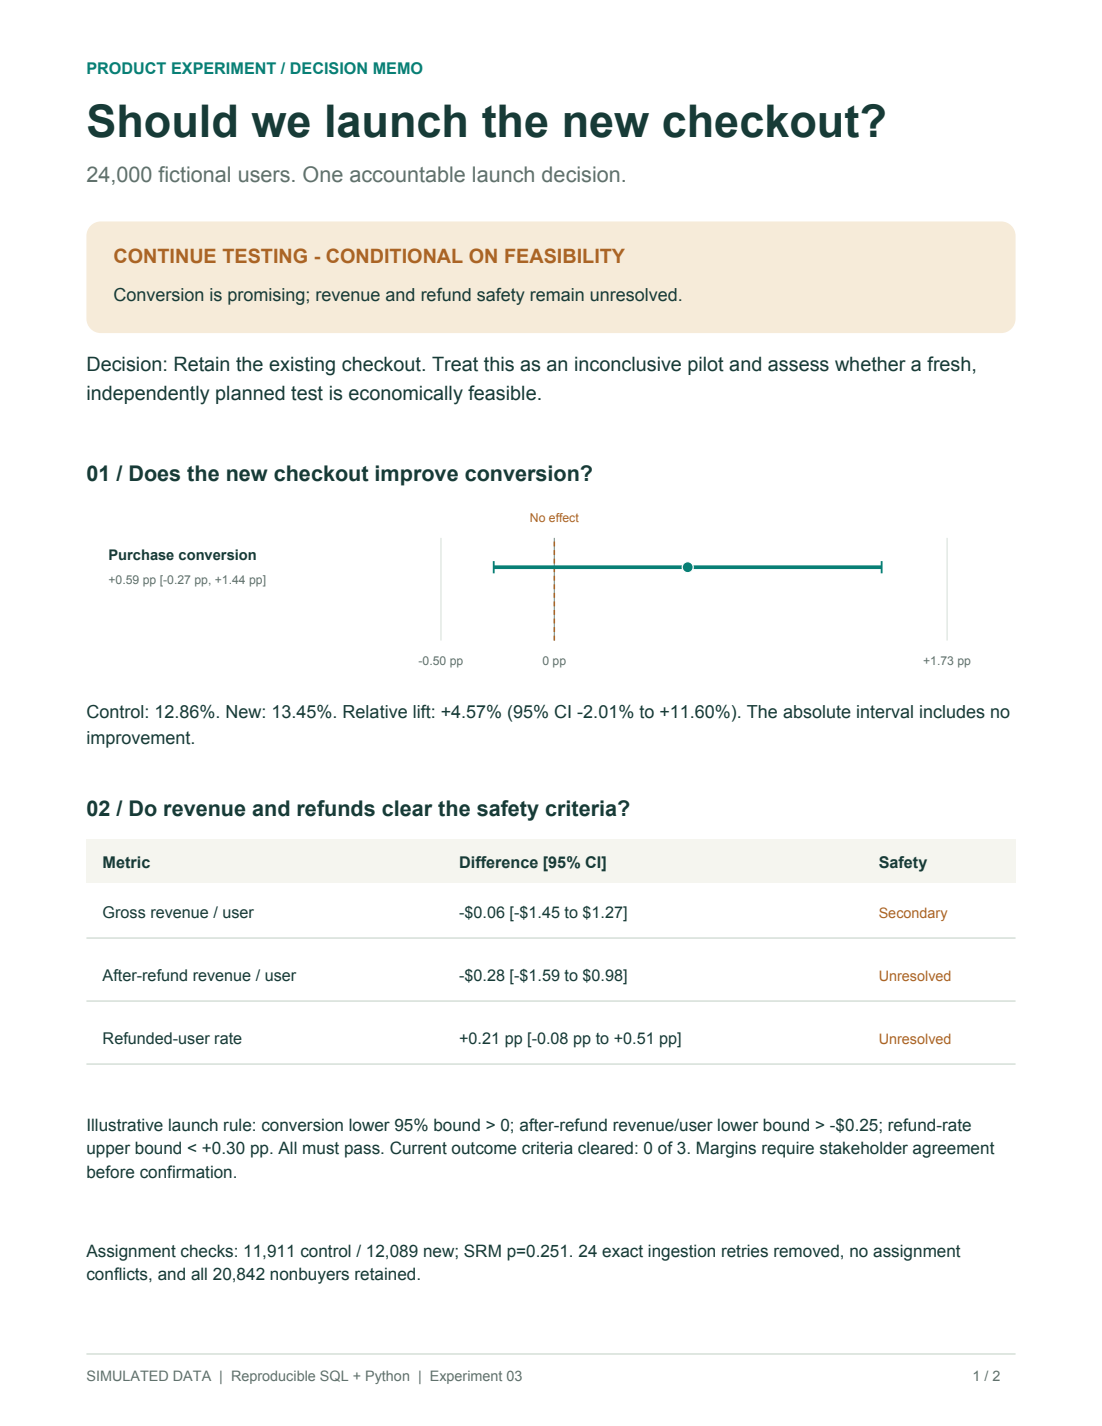
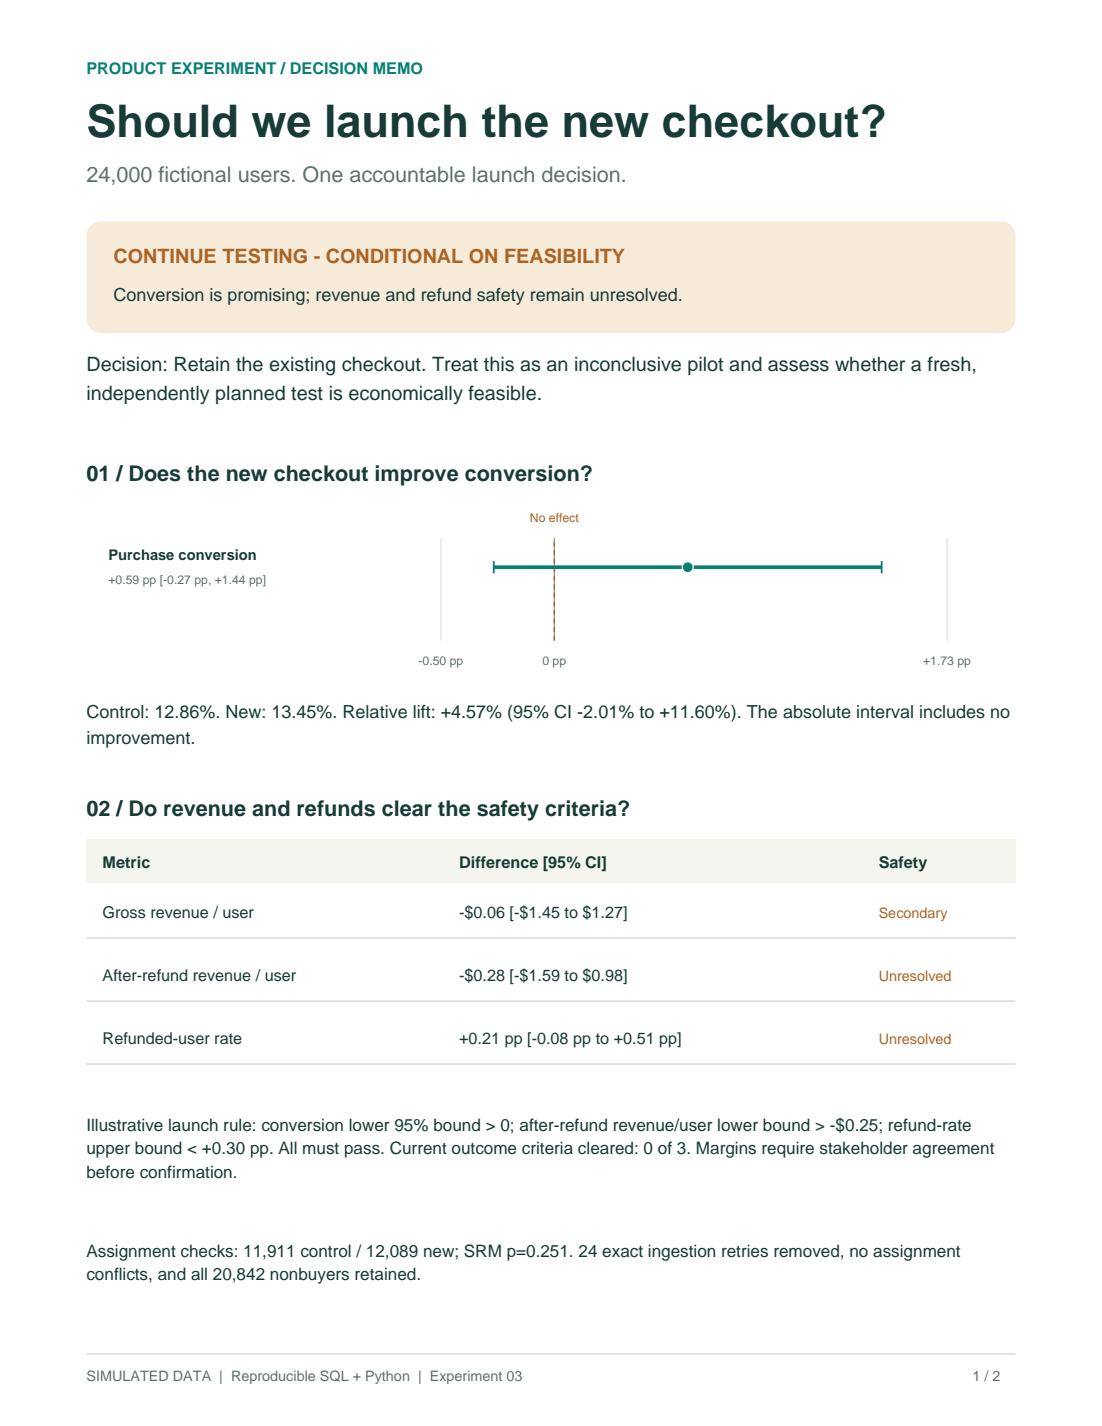
Update project documentation, rebuild readout artifacts, and add license (#1)

diff --git a/readout.html b/readout.html
@@ -5,4 +5,4 @@
[3 lines of base64/hex data omitted]
-<section class="section"><div class="section-head"><span class="section-number">05</span><div><h2>What a reviewer should challenge</h2><details open><summary>Simulation and external validity</summary><div><p>All records are fictional and the randomization process is disclosed. The observed recommendation is based on estimated effects, not the simulator's hidden probabilities. Real experiments require audits of identities, assignment delivery, payment reconciliation, tracking gaps and spillovers.</p></div></details><details><summary>Repeated checking and subgroup fishing</summary><div><p>Stopping at the first favorable ordinary confidence interval increases false positives. Use a fixed horizon or a valid sequential design. Searching many device, customer or date slices creates accidental winners. This project makes no segment launch claims; balance and shorter-window diagnostics are exploratory.</p></div></details><details><summary>Refund interpretation and missing costs</summary><div><p>Refunds among buyers are 9.66% versus 10.82%, but purchasing is affected by assignment. That conditional comparison is descriptive. The primary refund guardrail retains all assigned users. Neither revenue metric includes fees, fulfillment costs, profit margin, chargebacks or long-term customer effects.</p></div></details><details><summary>Explore the evidence and reproduce it</summary><div><ul><li><a href="docs/METHODOLOGY.md">Measurement, inference and planning assumptions</a></li><li><a href="docs/DATA_DICTIONARY.md">Raw tables and simulation provenance</a></li><li><a href="results/window_sensitivity.csv">Exploratory 1-, 3- and 7-day point estimates, without inference</a></li><li><a href="results/metrics.json">Full precision results and decision gates</a></li><li><a href="docs/INTERVIEW_GUIDE.md">Interview walkthrough and reviewer questions</a></li></ul></div></details></div></div></section></main><footer class="wrap">Built for an analyst portfolio. Synthetic data, disclosed assumptions, reproducible results.<br>Seed 314159 · Bootstrap seed 271828 · Enrollment January 1–28, 2026 · Frozen extract 2026-03-07T00:00:00 UTC.</footer></body></html>
+<section class="section"><div class="section-head"><span class="section-number">05</span><div><h2>What a reviewer should challenge</h2><details open><summary>Simulation and external validity</summary><div><p>All records are fictional and the randomization process is disclosed. The observed recommendation is based on estimated effects, not the simulator's hidden probabilities. Real experiments require audits of identities, assignment delivery, payment reconciliation, tracking gaps and spillovers.</p></div></details><details><summary>Repeated checking and subgroup fishing</summary><div><p>Stopping at the first favorable ordinary confidence interval increases false positives. Use a fixed horizon or a valid sequential design. Searching many device, customer or date slices creates accidental winners. This project makes no segment launch claims; balance and shorter-window diagnostics are exploratory.</p></div></details><details><summary>Refund interpretation and missing costs</summary><div><p>Refunds among buyers are 9.66% versus 10.82%, but purchasing is affected by assignment. That conditional comparison is descriptive. The primary refund guardrail retains all assigned users. Neither revenue metric includes fees, fulfillment costs, profit margin, chargebacks or long-term customer effects.</p></div></details><details><summary>Explore the evidence and reproduce it</summary><div><ul><li><a href="docs/METHODOLOGY.md">Measurement, inference and planning assumptions</a></li><li><a href="docs/DATA_DICTIONARY.md">Raw tables and simulation provenance</a></li><li><a href="results/window_sensitivity.csv">Exploratory 1-, 3- and 7-day point estimates, without inference</a></li><li><a href="results/metrics.json">Full precision results and decision gates</a></li></ul></div></details></div></div></section></main><footer class="wrap">Built for an analyst portfolio. Synthetic data, disclosed assumptions, reproducible results.<br>Seed 314159 · Bootstrap seed 271828 · Enrollment January 1–28, 2026 · Frozen extract 2026-03-07T00:00:00 UTC.</footer></body></html>

diff --git a/src/build_readout.py b/src/build_readout.py
@@ -229,7 +229,7 @@ def build(root=ROOT):
 <section class="section" id="economics"><div class="section-head"><span class="section-number">02</span><div><h2>More buyers, nearly flat revenue estimate.</h2><p class="reading">Gross revenue per assigned user is {signed_usd(rv['gross']['difference'])} at the point estimate. Its 95% interval runs from {usd(rv['gross']['ci95'][0])} to {usd(rv['gross']['ci95'][1])}, so these data do not establish either a gain or a loss. Gross revenue equals conversion × orders per buyer × average order value. In this sample, lower repeat ordering and basket value offset the conversion contribution. Additional refunds reduce the after-refund point estimate further.</p>{figure('revenue_drivers','Arithmetic decomposition of the observed difference, averaged across all six factor replacement orders. These are descriptive contributions, not separately established causal effects.')}<div class="two"><div class="panel"><h3>Average order value</h3><p class="no-margin">{usd(g['control']['average_order_value'])} → {usd(g['new']['average_order_value'])}</p><span class="small">Control → new checkout</span></div><div class="panel"><h3>Orders per buyer</h3><p class="no-margin">{g['control']['orders_per_buyer']:.3f} → {g['new']['orders_per_buyer']:.3f}</p><span class="small">Descriptive; buyer composition can change</span></div></div><details><summary>Why use a user bootstrap for revenue?</summary><div><p>Approximately {g['control']['zero_revenue_share']:.0%} of control users and {g['new']['zero_revenue_share']:.0%} of new-checkout users generate zero revenue. The top 1% of assigned users account for {g['control']['top_one_percent_revenue_share']:.1%} and {g['new']['top_one_percent_revenue_share']:.1%} of gross revenue, respectively.</p><p>We resample assigned users within each arm {m['bootstrap_replicates']:,} times, retaining zeroes and all orders and refunds for each selected user. No outliers are deleted. A separate normal-approximation interval gives a similar conclusion: {ci(rv['net']['normal_ci95_sensitivity'],usd)} for after-refund revenue/user.</p></div></details></div></div></section>
 <section class="section"><div class="section-head"><span class="section-number">03</span><div><h2>Validate assignment before interpreting effects.</h2>{figure('allocation',allocation_text)}<p class="reading">No allocation alert at p &lt; {m['allocation']['alert_threshold']}. There are {q['duplicate_extra_rows']} exact ingestion retries and {q['conflicting_users']} conflicting assignments. The pipeline rejects conflicting assignments, broken keys, malformed timestamps, excess refunds and immature follow-up. SQL has its own assignment and maturity gates.</p><div class="panel"><h3>Every assigned user reconciles</h3><p>Independent Python logic reproduces the SQL order, refund and checkout outcomes for all {q['reconciled_users']:,} users. {q['excluded_orders']} orders are excluded by the measurement contract: {q['excluded_order_reasons']['not_paid']} not paid, {q['excluded_order_reasons']['pre_assignment']} before assignment, and {q['excluded_order_reasons']['after_purchase_window']} after the purchase window.</p><p class="small no-margin">An unflagged allocation test does not prove exposure delivery or tracking are correct. The simulation assumes complete identities and logs.</p></div></div></div></section>
 <section class="section" id="next"><div class="section-head"><span class="section-number">04</span><div><h2>Make the next experiment an economic decision.</h2><p class="reading">Agree on these illustrative success and safety criteria before a new confirmatory test. The recommendation is calculated from the intervals, rather than stored as a fixed answer.</p><div class="table-scroll"><table><thead><tr><th>Criterion</th><th>Rule</th><th>Observed bound</th><th>Status</th></tr></thead><tbody>{gates}</tbody></table></div>{figure('sample_size','Conversion and safety tests need different sample sizes. These normal-approximation scenarios target 80% power per criterion separately, with a one-sided 2.5% boundary for safety.')}<div class="insight"><strong>The limiting factor is revenue precision.</strong><p class="no-margin">A {usd(loss)} loss limit requires about {net['n_per_arm']:,} users per group under zero true revenue loss. At {p['reference_users_per_arm']:,} per group, power is only {net['power_at_reference_n']:.0%}. A bigger conversion test alone does not solve the launch decision.</p></div><details><summary>How sensitive is this to business assumptions?</summary><div><p>Under zero true revenue change, a larger acceptable-loss margin requires less traffic. These are planning scenarios, not suggested threshold changes.</p><div class="table-scroll"><table><thead><tr><th>Acceptable loss / user</th><th>Users / arm</th><th>Power at {p['reference_users_per_arm']:,} / arm</th></tr></thead><tbody>{scenarios}</tbody></table></div><p>If the observed revenue estimate of {usd(rv['net']['difference'])} were the true effect, it would fall below the {usd(-loss)} safety boundary; more users would not make that effect safe. If the observed refund increase persisted, refund safety alone would need about {refundpilot['n_per_arm']:,} users per arm. Pilot effects are uncertain, so these are scenarios, not predictions.</p></div></details><ol><li><strong>Agree on economics.</strong> Define acceptable loss using margin, implementation cost and customer impact; confirm available traffic.</li><li><strong>Decide whether confirmation is worthwhile.</strong> Estimate test cost and precision for all criteria. If infeasible, retain the current checkout and redesign.</li><li><strong>Predefine the next test.</strong> Use a fresh independent fixed-horizon run, or a valid prospective sequential design. Specify sample cap and mature follow-up.</li><li><strong>Launch only after all agreed criteria clear.</strong> Operational readiness still requires review, followed by a staged rollout.</li></ol></div></div></section>
-<section class="section"><div class="section-head"><span class="section-number">05</span><div><h2>What a reviewer should challenge</h2><details open><summary>Simulation and external validity</summary><div><p>All records are fictional and the randomization process is disclosed. The observed recommendation is based on estimated effects, not the simulator's hidden probabilities. Real experiments require audits of identities, assignment delivery, payment reconciliation, tracking gaps and spillovers.</p></div></details><details><summary>Repeated checking and subgroup fishing</summary><div><p>Stopping at the first favorable ordinary confidence interval increases false positives. Use a fixed horizon or a valid sequential design. Searching many device, customer or date slices creates accidental winners. This project makes no segment launch claims; balance and shorter-window diagnostics are exploratory.</p></div></details><details><summary>Refund interpretation and missing costs</summary><div><p>Refunds among buyers are {pct(g['control']['refund_buyer_rate'])} versus {pct(g['new']['refund_buyer_rate'])}, but purchasing is affected by assignment. That conditional comparison is descriptive. The primary refund guardrail retains all assigned users. Neither revenue metric includes fees, fulfillment costs, profit margin, chargebacks or long-term customer effects.</p></div></details><details><summary>Explore the evidence and reproduce it</summary><div><ul><li><a href="docs/METHODOLOGY.md">Measurement, inference and planning assumptions</a></li><li><a href="docs/DATA_DICTIONARY.md">Raw tables and simulation provenance</a></li><li><a href="results/window_sensitivity.csv">Exploratory 1-, 3- and 7-day point estimates, without inference</a></li><li><a href="results/metrics.json">Full precision results and decision gates</a></li><li><a href="docs/INTERVIEW_GUIDE.md">Interview walkthrough and reviewer questions</a></li></ul></div></details></div></div></section></main><footer class="wrap">Built for an analyst portfolio. Synthetic data, disclosed assumptions, reproducible results.<br>Seed {m['seed']} · Bootstrap seed {m['bootstrap_seed']} · Enrollment January 1–28, 2026 · Frozen extract {cfg['measurement']['extract_at']} UTC.</footer></body></html>'''
+<section class="section"><div class="section-head"><span class="section-number">05</span><div><h2>What a reviewer should challenge</h2><details open><summary>Simulation and external validity</summary><div><p>All records are fictional and the randomization process is disclosed. The observed recommendation is based on estimated effects, not the simulator's hidden probabilities. Real experiments require audits of identities, assignment delivery, payment reconciliation, tracking gaps and spillovers.</p></div></details><details><summary>Repeated checking and subgroup fishing</summary><div><p>Stopping at the first favorable ordinary confidence interval increases false positives. Use a fixed horizon or a valid sequential design. Searching many device, customer or date slices creates accidental winners. This project makes no segment launch claims; balance and shorter-window diagnostics are exploratory.</p></div></details><details><summary>Refund interpretation and missing costs</summary><div><p>Refunds among buyers are {pct(g['control']['refund_buyer_rate'])} versus {pct(g['new']['refund_buyer_rate'])}, but purchasing is affected by assignment. That conditional comparison is descriptive. The primary refund guardrail retains all assigned users. Neither revenue metric includes fees, fulfillment costs, profit margin, chargebacks or long-term customer effects.</p></div></details><details><summary>Explore the evidence and reproduce it</summary><div><ul><li><a href="docs/METHODOLOGY.md">Measurement, inference and planning assumptions</a></li><li><a href="docs/DATA_DICTIONARY.md">Raw tables and simulation provenance</a></li><li><a href="results/window_sensitivity.csv">Exploratory 1-, 3- and 7-day point estimates, without inference</a></li><li><a href="results/metrics.json">Full precision results and decision gates</a></li></ul></div></details></div></div></section></main><footer class="wrap">Built for an analyst portfolio. Synthetic data, disclosed assumptions, reproducible results.<br>Seed {m['seed']} · Bootstrap seed {m['bootstrap_seed']} · Enrollment January 1–28, 2026 · Frozen extract {cfg['measurement']['extract_at']} UTC.</footer></body></html>'''
     (root/'readout.html').write_text(page)
     summary=f'''# Should we launch the new checkout?
 

diff --git a/src/verify_project.py b/src/verify_project.py
@@ -107,7 +107,7 @@ def verify(root=ROOT):
         'local_links_and_svg_structure':'PASS','pdf_pages':len(doc),
         'pdf_text_and_page_bounds':'PASS','pdf_sha256':pdf_hash,
         'pdf_visual_review':'PASS' if reviewed else 'Pending review of this exact PDF',
-        'html_browser_preview':'Unavailable: prior local-file browser policy block. No browser visual verification claimed.'}
+        'html_browser_preview':'Not performed: the HTML page has not been manually opened in a browser. No browser visual verification claimed.'}
     save_json(root/'results/verification.json',report)
     print(f"Artifact checks PASS; {len(cells)} executed cells; 2 PDF pages; original data preserved: {original_preserved}.")
     return report

diff --git a/src/build_notebook.py b/src/build_notebook.py
@@ -157,7 +157,7 @@ Retain the existing checkout. Consider a fresh independently planned test only a
 
 This dataset is simulated, with stable identities, complete logging and no spillovers. Real evidence needs instrumentation audits. After-refund revenue excludes costs and long-term effects. Multiple subgroup searches can create false positives; no segment launch claims are made. Individual 95% intervals are not simultaneous 95% intervals.
 
-See `docs/METHODOLOGY.md` for formulas, assumptions and references, and `docs/INTERVIEW_GUIDE.md` for a concise explanation of the project.
+See `docs/METHODOLOGY.md` for formulas, assumptions and references.
 ''')
     ]
     namespace={'__name__':'__notebook__'};execution=0

diff --git a/README.md b/README.md
@@ -70,9 +70,7 @@ The notebook uses normal Python cells. `build_notebook.py` actually executes the
 | [src/quality.py](src/quality.py) | Source contracts and independent reconciliation |
 | [tests/test_analysis.py](tests/test_analysis.py) | Edge cases and statistical behavior |
 | [docs/METHODOLOGY.md](docs/METHODOLOGY.md) | Estimands, formulas, sample planning and limitations |
-| [docs/INTERVIEW_GUIDE.md](docs/INTERVIEW_GUIDE.md) | Interview narrative, questions and honest resume wording |
 | [docs/CHANGELOG.md](docs/CHANGELOG.md) | Improvements and validation evidence |
-| [GITHUB_GUIDE.md](GITHUB_GUIDE.md) | GitHub setup, resume bullets and sharing checklist |
 
 `data/` contains five source CSVs, an analytical CSV and a ready-to-query SQLite database. `results/` includes unrounded metrics, bootstrap draws, sensitivity tables, quality reports and data hashes. `charts/` contains six standalone SVGs and the PDF preview.
 
@@ -84,4 +82,4 @@ All data are fictional. Seed 314159 and the original 24,000-user pilot are prese
 
 The design is a portfolio simulation, not work conducted for a real retailer. Safety margins are illustrative assumptions, not approved policy or historical preregistration. Revenue after observed refunds is not profit. Available traffic, implementation cost and long-term customer value are unknown, so the project does not claim that more testing has positive expected value.
 
-The PDF was rendered and visually reviewed. HTML source, links and shared charts were checked; local HTML browser preview remains unavailable under the environment's browser policy.
+The PDF was rendered and visually reviewed. HTML source, links and shared charts were checked programmatically; the rendered HTML page has not been manually opened in a browser, so no browser-rendering check is claimed.

diff --git a/docs/CHANGELOG.md b/docs/CHANGELOG.md
@@ -11,7 +11,7 @@
 7. Built and executed the notebook with actual saved outputs, including independent reconstruction of the reported bootstrap intervals.
 8. Added exploratory pre-assignment balance and measurement-window diagnostics without selecting a favorable subgroup or outcome window.
 9. Rebuilt the visual case study with six charts and added a two-page PDF, rendered and visually reviewed.
-10. Added one-command rebuilding, offline verification, an updated interview guide and a packaged ZIP.
+10. Added one-command rebuilding and an offline verification script.
 
 ## What the review did not change
 
@@ -26,4 +26,4 @@ The original simulated users, assignments, events, orders, refunds and user-anal
 
 ## Review limits
 
-The PDF was visually inspected at full-page resolution. HTML source, links and shared charts were validated, but the environment blocked local-file browser preview. The HTML appearance has not been verified in a browser. The supplied tests and reconciliation validate this dataset and documented behaviors, not every possible production data source.
+The PDF was visually inspected at full-page resolution. HTML source, links and shared charts were validated programmatically, but the HTML page has not been manually opened and checked in a browser. The supplied tests and reconciliation validate this dataset and documented behaviors, not every possible production data source.
